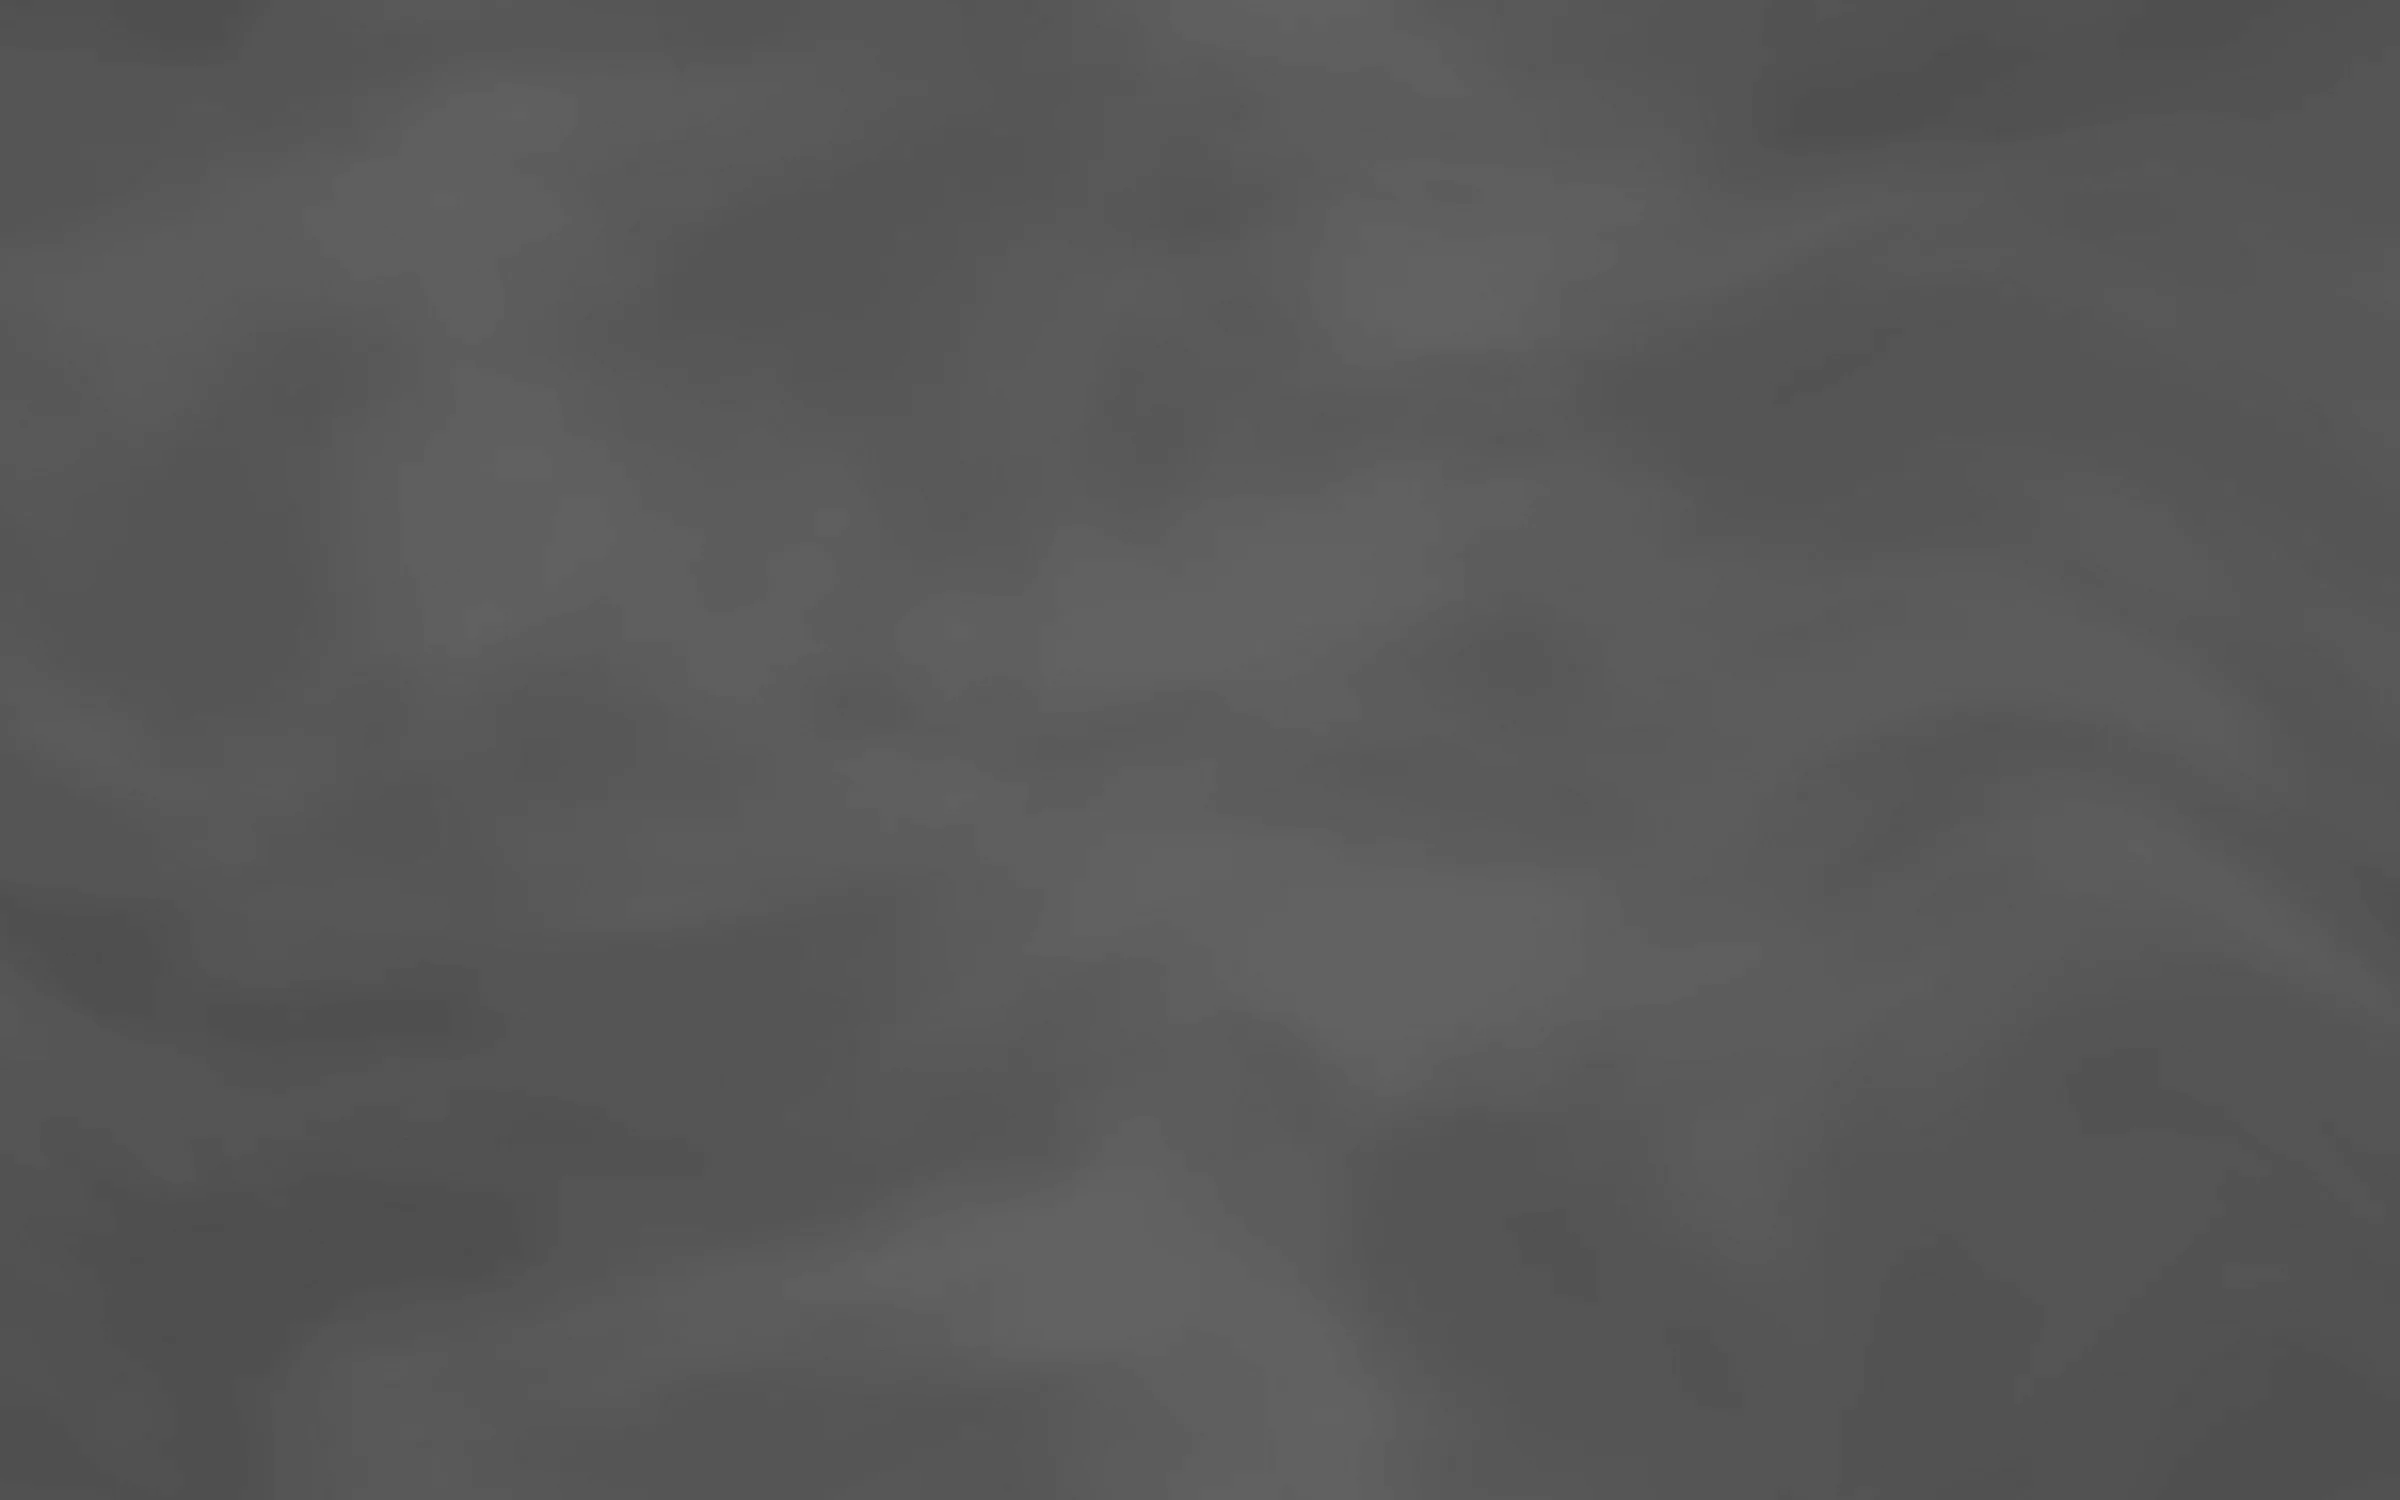
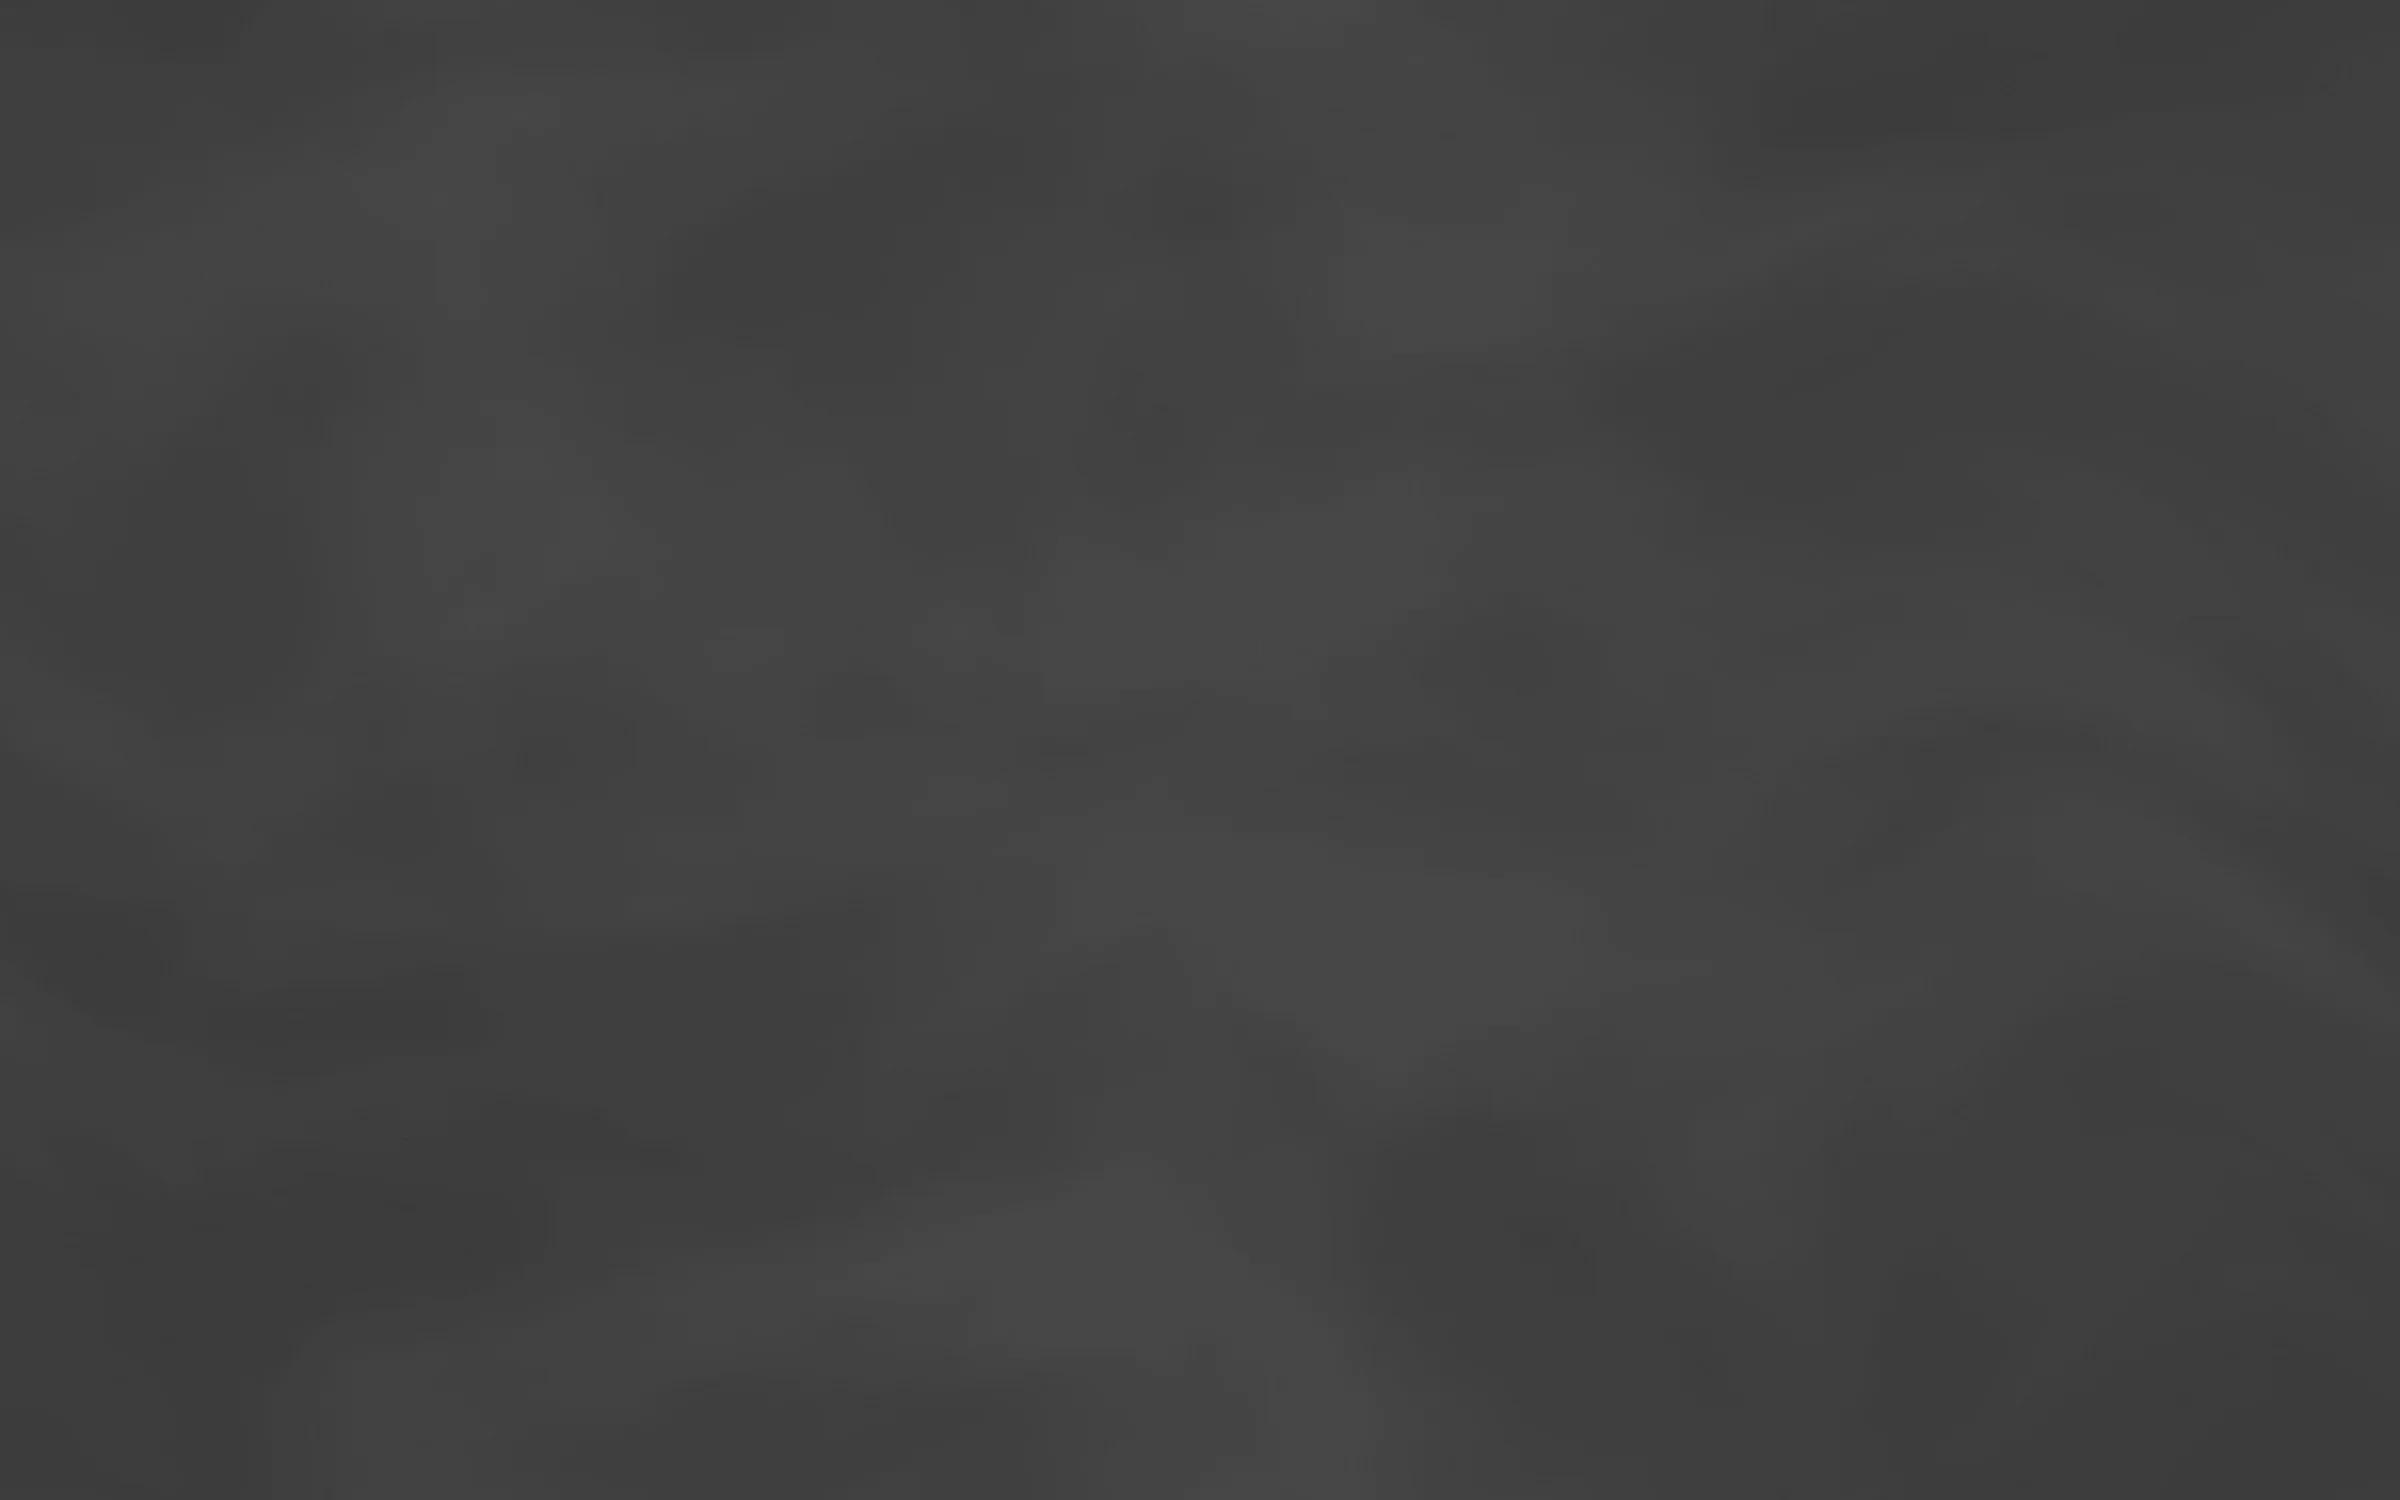
Build Analysis panel: darker, closer to black

diff --git a/index.html b/index.html
@@ -1130,8 +1130,8 @@ body .cb-sh-head:after{height:12px;background:url(img/ui-underline.webp) var(--u
 .cm-board{background:url(img/ui-border.webp) var(--ul-x,50%) 0/var(--ul-s,100%) 4px no-repeat,url(img/ui-border.webp) var(--ul-x,50%) 100%/var(--ul-s,100%) 4px no-repeat,url(img/ui-border-v.webp) 0 var(--ul-x,50%)/4px var(--ul-s,100%) no-repeat,url(img/ui-border-v.webp) 100% var(--ul-x,50%)/4px var(--ul-s,100%) no-repeat,#0b0c0e url(img/frame/bg.webp) center top/max(100%,588px) auto repeat-y}
 /* Shared build page: same four-edge line on the hero, stats, analysis, damage and notes cards */
 body.cb-shared #cbShTop>.cb-sh-hero,body.cb-shared #cbShTop>.cb-panel{background:url(img/ui-border.webp) var(--ul-x,50%) 0/var(--ul-s,100%) 4px no-repeat,url(img/ui-border.webp) var(--ul-x,50%) 100%/var(--ul-s,100%) 4px no-repeat,url(img/ui-border-v.webp) 0 var(--ul-x,50%)/4px var(--ul-s,100%) no-repeat,url(img/ui-border-v.webp) 100% var(--ul-x,50%)/4px var(--ul-s,100%) no-repeat,#0b0c0e url(img/frame/bg.webp) center top/max(100%,588px) auto repeat-y!important}
-#cbReport .panel{border:0;background:url(img/ui-border.webp) var(--ul-x,50%) 0/var(--ul-s,100%) 4px no-repeat,url(img/ui-border.webp) var(--ul-x,50%) 100%/var(--ul-s,100%) 4px no-repeat,url(img/ui-border-v.webp) 0 var(--ul-x,50%)/4px var(--ul-s,100%) no-repeat,url(img/ui-border-v.webp) 100% var(--ul-x,50%)/4px var(--ul-s,100%) no-repeat,rgba(8,8,9,.62) url(img/frame/bg-big-gray.webp) var(--ul-x,50%) var(--ul-x,50%)/2400px auto no-repeat}
-#cbReport .cb-grade{border:0;background:url(img/ui-border.webp) var(--ul-x,50%) 0/var(--ul-s,100%) 4px no-repeat,url(img/ui-border.webp) var(--ul-x,50%) 100%/var(--ul-s,100%) 4px no-repeat,url(img/ui-border-v.webp) 0 var(--ul-x,50%)/4px var(--ul-s,100%) no-repeat,url(img/ui-border-v.webp) 100% var(--ul-x,50%)/4px var(--ul-s,100%) no-repeat,rgba(8,8,9,.62) url(img/frame/bg-big-gray.webp) var(--ul-x,50%) var(--ul-x,50%)/2400px auto no-repeat}
+#cbReport .panel{border:0;background:url(img/ui-border.webp) var(--ul-x,50%) 0/var(--ul-s,100%) 4px no-repeat,url(img/ui-border.webp) var(--ul-x,50%) 100%/var(--ul-s,100%) 4px no-repeat,url(img/ui-border-v.webp) 0 var(--ul-x,50%)/4px var(--ul-s,100%) no-repeat,url(img/ui-border-v.webp) 100% var(--ul-x,50%)/4px var(--ul-s,100%) no-repeat,rgba(2,2,3,.78) url(img/frame/bg-big-gray.webp) var(--ul-x,50%) var(--ul-x,50%)/2400px auto no-repeat}
+#cbReport .cb-grade{border:0;background:url(img/ui-border.webp) var(--ul-x,50%) 0/var(--ul-s,100%) 4px no-repeat,url(img/ui-border.webp) var(--ul-x,50%) 100%/var(--ul-s,100%) 4px no-repeat,url(img/ui-border-v.webp) 0 var(--ul-x,50%)/4px var(--ul-s,100%) no-repeat,url(img/ui-border-v.webp) 100% var(--ul-x,50%)/4px var(--ul-s,100%) no-repeat,rgba(2,2,3,.78) url(img/frame/bg-big-gray.webp) var(--ul-x,50%) var(--ul-x,50%)/2400px auto no-repeat}
 
 /* Item cards: type, colors and spacing taken from the in-game card */
 .wd-card{color:#cbcccd;font-size:14.5px}
